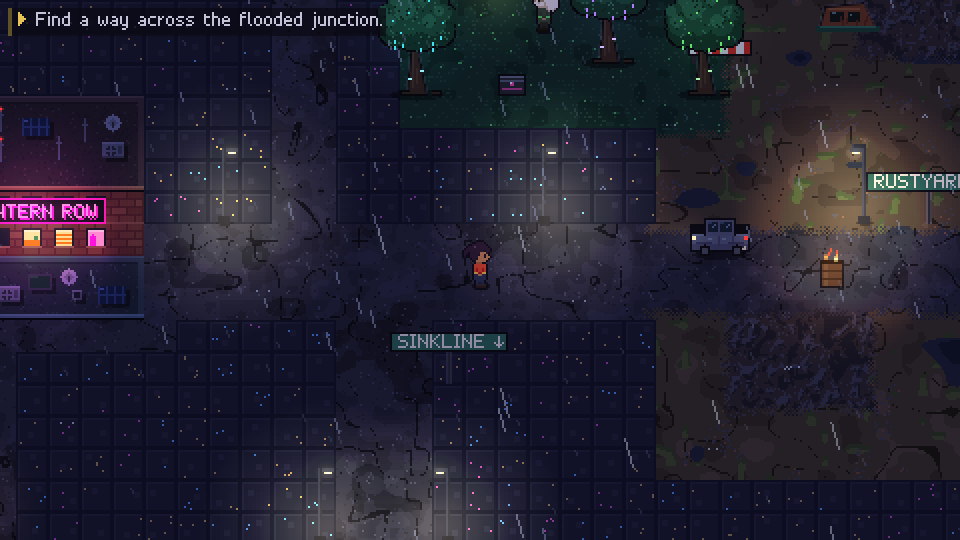
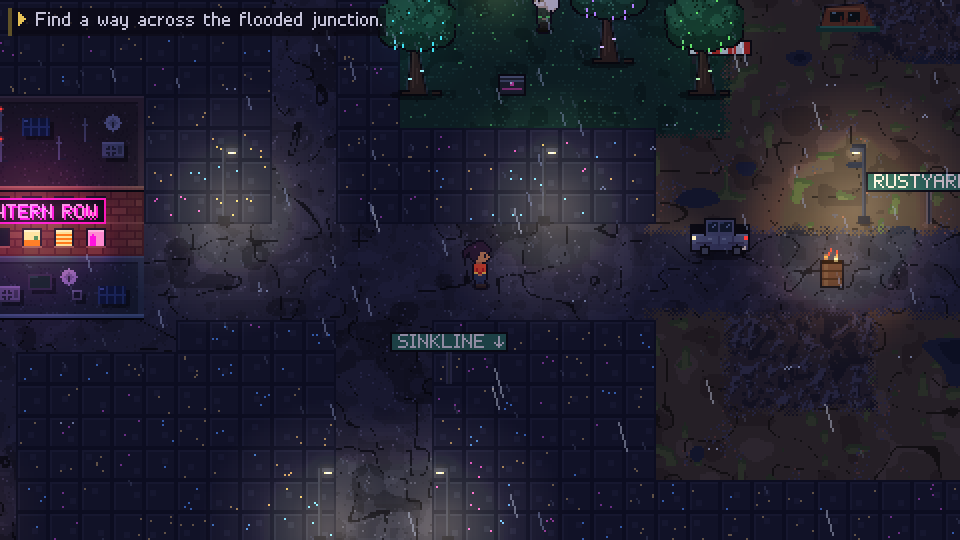
Rustyard: scav-painted signs through the maze; the Rustfang tag reads as their mark
DEPOT arrows at the west and east ways in, KEEP OUT on the middle one (it
marks a scav's stash); Tobin now points at the arrows instead of refusing
directions. The Rustfang tag is a filled, dark-rimmed disc with two bold fangs
(a thin ring read as scribble at play size).

diff --git a/src/field/props.ts b/src/field/props.ts
@@ -529,28 +529,38 @@ export const PROPS: Partial<Record<PropKind, PropPainter>> = {
   },
 
   tag(b, p) {
-    // Rustfang spray tag on a wall face or scrap: a bold fang roundel, overspray and drips.
+    // Rustfang spray tag on a wall face or scrap: a filled red disc with a dark rim and two bold
+    // fangs, so it reads as the gang's mark at play size (a thin ring read as scribble), plus
+    // drips and a little overspray.
     const x = p.x * TS, y = p.y * TS;
     const red = p.color ?? '#ff4a32';
     const g = b.g;
-    g.fillStyle = red;
-    for (let a = 0; a < 40; a++) {
-      const t = (a / 40) * Math.PI * 2;
-      for (const r of [5.5, 6.5]) g.fillRect(Math.round(x + 8 + Math.cos(t) * r), Math.round(y + 7 + Math.sin(t) * r), 1, 1);
+    const cx = x + 8, cy = y + 7;
+    for (let yy = -7; yy <= 7; yy++) {
+      for (let xx = -7; xx <= 7; xx++) {
+        const d = Math.hypot(xx + 0.5, yy + 0.5);
+        if (d > 7.2) continue;
+        g.fillStyle = d > 6.2 ? '#1a0a0c' : red;
+        g.fillRect(cx + xx, cy + yy, 1, 1);
+      }
     }
-    // Two fangs.
-    g.fillStyle = '#f4ecdc';
-    for (const fx of [5, 9]) {
-      g.fillRect(x + fx, y + 4, 3, 1);
-      g.fillRect(x + fx, y + 5, 2, 2);
-      g.fillRect(x + fx + (fx === 5 ? 1 : 0), y + 7, 1, 2);
+    // Two fangs hanging from the top of the disc, outlined.
+    for (const [x0, x1] of [[-5, -1], [1, 5]] as const) {
+      for (let r = 0; r < 8; r++) {
+        const inset = Math.floor((r * (x1 - x0)) / 16);
+        const a = cx + x0 + inset, bb = cx + x1 - inset;
+        if (bb < a) break;
+        g.fillStyle = '#1a0a0c';
+        g.fillRect(a - 1, cy - 4 + r, bb - a + 3, 1);
+        g.fillStyle = '#f4ecdc';
+        g.fillRect(a, cy - 4 + r, bb - a + 1, 1);
+      }
     }
-    // Overspray and drips.
     g.fillStyle = red;
-    g.globalAlpha = 0.45;
-    for (let i = 0; i < 9; i++) g.fillRect(x + 1 + ((i * 5 + p.x) % 14), y + ((i * 3 + p.y) % 14), 1, 1);
+    g.globalAlpha = 0.35;
+    for (let i = 0; i < 6; i++) g.fillRect(x + 1 + ((i * 5 + p.x) % 14), y + ((i * 7 + p.y) % 3), 1, 1);
     g.globalAlpha = 1;
-    for (const dx of [5, 10, 12]) g.fillRect(x + dx, y + 13, 1, 2 + ((dx + p.y) % 2));
+    for (const dx of [5, 11]) g.fillRect(x + dx, y + 14, 1, 1 + ((dx + p.y) % 2));
   },
 
   banner(b, p) {

diff --git a/src/data/maps/rustyard.ts b/src/data/maps/rustyard.ts
@@ -71,6 +71,11 @@ export const rustyard: MapDef = {
     { kind: 'lamp', x: 18, y: 21, dir: 'left' },
     { kind: 'dumpster', x: 23, y: 20, w: 2, color: '#5a3a2a' },
     // Rustfang territory: tags on the scrap walls facing the camp, banners staking the north yard.
+    // The scavs' own wayfinding through the maze, repainted whenever the heaps shift; the middle
+    // way's sign is a warning that marks somebody's stash.
+    { kind: 'sign_post', x: 11, y: 13, text: 'DEPOT ↑' },
+    { kind: 'sign_post', x: 16, y: 13, text: 'KEEP OUT' },
+    { kind: 'sign_post', x: 25, y: 13, text: 'DEPOT ↑' },
     { kind: 'tag', x: 5, y: 12 },
     // Their mark on the loose scrap in the camp's west corner: where they stash the tribute.
     { kind: 'tag', x: 2, y: 14, color: '#ffb02e' },
@@ -113,7 +118,7 @@ export const rustyard: MapDef = {
       id: 'nephew', x: 17, y: 20, dir: 'down', name: 'Tobin', look: randomLook(310), move: 'static',
       talk: async (s) => {
         if (!s.flag('rustyard_gate')) await s.say('Tobin', 'Auntie Mags says don’t fight the Rustfangs. They broke Pell’s hands last week for coming up short on tribute.');
-        else if (!s.flag('knuckles')) await s.say('Tobin', 'Knuckles lives up at the tire depot, past the scrap maze. The heaps shift every time it rains, so don’t ask me the way. Mind the hounds.');
+        else if (!s.flag('knuckles')) await s.say('Tobin', 'Knuckles lives up at the tire depot, past the scrap maze. The heaps shift every time it rains; follow the painted arrows, we move them when the heaps move. Mind the hounds.');
         else await s.say('Tobin', 'You beat KNUCKLES? Can I have your autograph? Can I have your jacket?');
       },
     },
